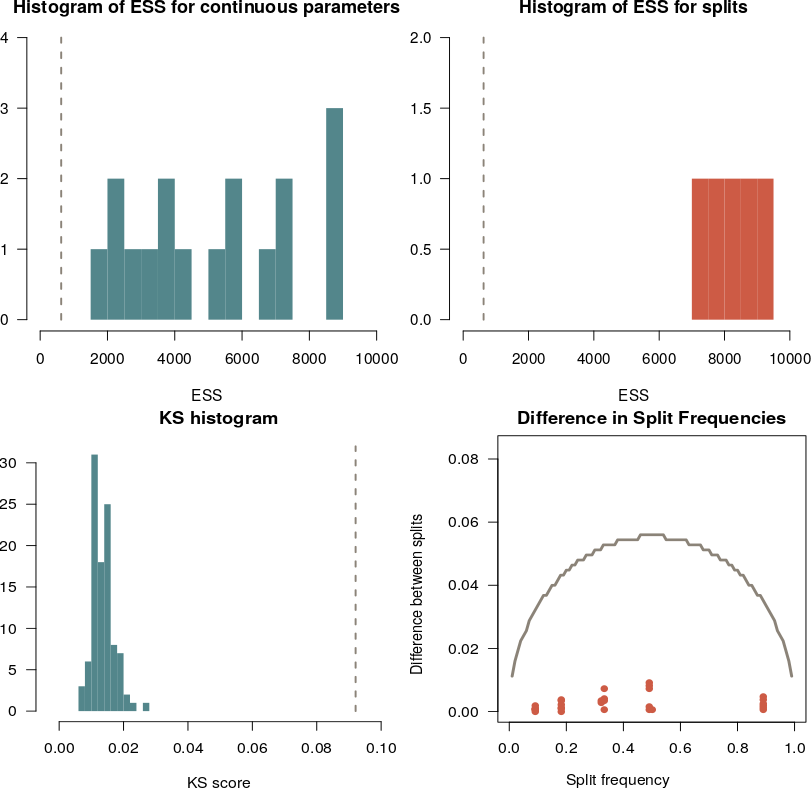
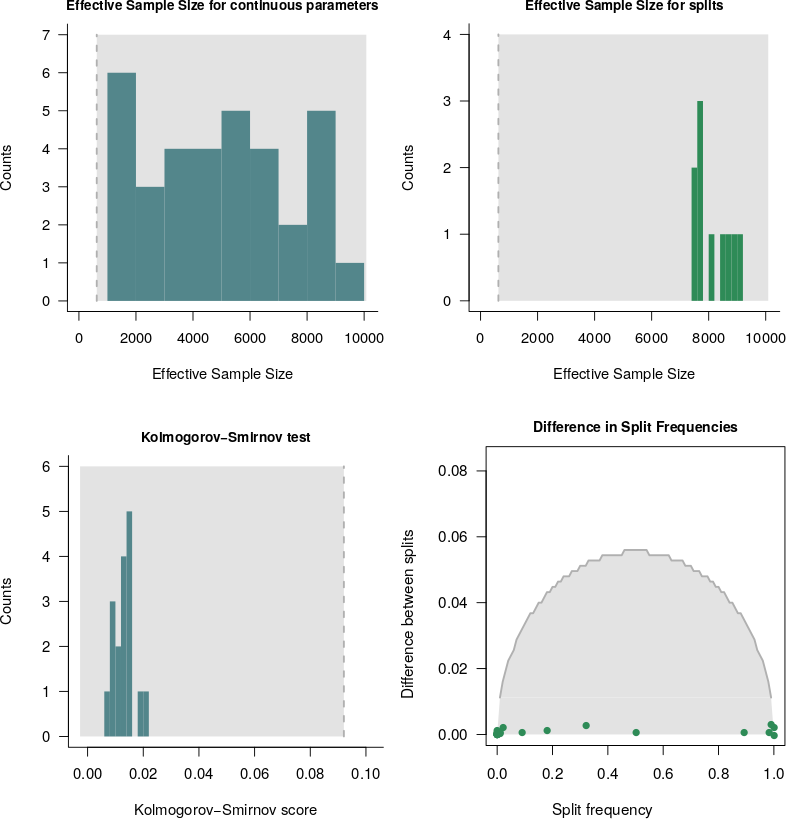
updated convergence tutorial after major changes in the convenience package

diff --git a/tutorials/convergence/index.md b/tutorials/convergence/index.md
@@ -225,10 +225,6 @@ The output message includes:
 
 * The calculated burn-in
 
-* The splits excluded from the assessment for having frequency above 0.975 or below 0.025 (when applicable)
-
-* The continuous parameters excluded from the assessment for having no variation during the MCMC (when applicable)
-
 * Lowest ESS for the splits and continuous parameters
 
 * Instructions to check further the output:
@@ -244,13 +240,17 @@ The output message includes:
   >    `ESS: output$tree_parameters$ess` <br />
   >    `Difference in frequencies: output$tree_parameters$compare_runs` <br />
 
+> `To check the full summary message with splits and parameters excluded from the analysis type:` <br />
+  >    `output$message_complete` <br />
 
-We can see that `check_bears` has 4 elements: `message`, `converged`, `continuous_parameters` and `tree_parameters`.
+
+We can see that `check_bears` has 4 elements: `message`, `message_complete`, `converged`, `continuous_parameters` and `tree_parameters`.
 
 1. `message`: a summary of the convergence assessment;
-2. `converged`: a boolean that has TRUE if the analysis converged and FALSE if it did not converge;
-3. `continuous_parameters`: a list with means, ESS and KS-scores between runs;
-4. `tree_parameters`: a list with frequencies, ESS and split frequencies between runs.
+2. `message_complete`: the summary from message plus: (1) the splits excluded from the assessment for having frequency above 0.975 or below 0.025 (when applicable), (2) the continuous parameters excluded from the assessment for having no variation during the MCMC (when applicable);
+3. `converged`: a boolean that has TRUE if the analysis converged and FALSE if it did not converge;
+4. `continuous_parameters`: a list with means, ESS and KS-scores between runs;
+5. `tree_parameters`: a list with frequencies, ESS and split frequencies between runs.
 
 In case the analysis has failed to converge, another element will be on the output list: `failed` with the parameters that failed the criteria for convergence.
 
@@ -260,34 +260,34 @@ We can generate tables with general information for the continuous parameters th
 
 |        |     means     |     ESS    |
 | :---:  |     :----:    |     :---:  |
-| alpha  |  1.603954589  |  9031.384  |
-| er.1.  |  0.015576521  |  11070.400 |
-| er.2.  |  0.505904352  |  12114.042 |
-| er.3.  |  0.006423004  |  6343.636  |
-| er.4.  |  0.009572443  |  18549.306 |
-| er.5.  |  0.454927376  |  16764.042 |
-| er.6.  |  0.007596305  |  5534.844  |
-| p_inv  |  0.532339279  |  4382.799  |
-| pi.1.  |  0.293497210  |  10027.691 |
-| pi.2.  |  0.301726522  |  12104.489 |
-| pi.3.  |  0.135420687  |  9974.490  |
-| pi.4.  |  0.269355587  |  11021.611 |
-| sr.1.  |  0.216077996  |  10773.049 |
-| sr.2.  |  0.550663747  |  15892.737 |
-| sr.3.  |  1.015625752  |  11885.672 |
-| sr.4.  |  2.217632528  |  3654.626  |
-| TL     |  1.112491969  |  8041.564  |
+| alpha  |  1.603954589  |  8921.945  |
+| er.1.  |  0.015576521  |  10705.048 |
+| er.2.  |  0.505904352  |  11570.794 |
+| er.3.  |  0.006423004  |  5683.824  |
+| er.4.  |  0.009572443  |  18078.730 |
+| er.5.  |  0.454927376  |  15992.299 |
+| er.6.  |  0.007596305  |  4368.023  |
+| p_inv  |  0.532339279  |  3306.411  |
+| pi.1.  |  0.293497210  |  10057.477 |
+| pi.2.  |  0.301726522  |  11016.263 |
+| pi.3.  |  0.135420687  |  9775.079  |
+| pi.4.  |  0.269355587  |  9885.677  |
+| sr.1.  |  0.216077996  |  10275.761 |
+| sr.2.  |  0.550663747  |  16053.336 |
+| sr.3.  |  1.015625752  |  11775.210 |
+| sr.4.  |  2.217632528  |  3842.496  |
+| TL     |  1.112491969  |  7677.455  |
 
 
 > `printTableSplits(check_bears)` <br />
 
 |                                                                                   |     frequencies   |    ESS    |
 | :---                                                                              |     :----:        |    :---:  |
-|Helarctos_malayanus Ursus_americanus                                               |    0.08814119     | 18594.19  |
-|Melursus_ursinus Ursus_arctos Ursus_maritimus                                      |    0.17603240     | 17116.12  |
-|Helarctos_malayanus Melursus_ursinus Ursus_americanus Ursus_thibetanus             |    0.32441756     | 16318.73  |
-|Helarctos_malayanus Ursus_americanus Ursus_arctos Ursus_maritimus Ursus_thibetanus |    0.49535046     | 18692.89  |
-|Ursus_americanus Ursus_thibetanus                                                  |    0.88891111     | 15668.33  |
+|Helarctos_malayanus Ursus_americanus                                               |    0.09     | 17127.93  |
+|Melursus_ursinus Ursus_arctos Ursus_maritimus                                      |    0.18     | 18074.54  |
+|Helarctos_malayanus Melursus_ursinus Ursus_americanus Ursus_thibetanus             |    0.32     | 15526.14  |
+|Helarctos_malayanus Ursus_americanus Ursus_arctos Ursus_maritimus Ursus_thibetanus |    0.50     | 15731.22  |
+|Ursus_americanus Ursus_thibetanus                                                  |    0.89     | 15269.03  |
 
 
 Convenience also provides plot functions to facilitate showing that convergence has been achieved.
@@ -299,13 +299,13 @@ And the function `plotDiffSplits` yields a plot for the calculated difference in
 {% figure plotESS %}
 <img src="figures/results_plots.png" width="800" />
 {% figcaption %}
-The plots generated with Convenience for summarizing and visualizing the results from the convergence assessment. The top-left figure shows the histogram of calculated ESS values for the model parameters (continuous parameters). The bottom-left figure shows the histogram of calculated ESS for the splits. In both histograms the grey dotted lines represents the threshold of 625. The bottom-right plot is the histogram of the Kolmogorov-Smirnov (KS) for the model parameters, the dotted grey line represents the threshold for the KS test. The bottom-left figure shows the observed difference is split frequencies in the red dots and the expected difference between split frequencies (EDSF) in the grey curve.
+The plots generated with Convenience for summarizing and visualizing the results from the convergence assessment. The top-left figure shows the histogram of calculated ESS values for the model parameters (continuous parameters). The bottom-left figure shows the histogram of calculated ESS for the splits. In both histograms the grey dotted lines represents the threshold of 625. The bottom-right plot is the histogram of the Kolmogorov-Smirnov (KS) for the model parameters, the dotted grey line represents the threshold for the KS test. The bottom-left figure shows the observed difference is split frequencies in the green dots and the expected difference between split frequencies (EDSF) in the grey curve. For all plots, the grey area shows where the parameters should be for convergence to be achieved.
 {% endfigcaption %}
 {% endfigure %}
 
 We can see that, for all figures, all continuous parameters and splits have an ESS above the threshold. This is what we would have expected for a MCMC that has converged. 
 The KS histogram shows that all KS values calculated for the continuous parameters are below the threshold. This means that the parameters are drawn from the same distribution for both runs of our analysis. Therefore, if convergence is achieved for a given analysis, the histogram for the KS values should be similiar to this plot.
-The calculated differences in split frequencies fall below the threshold curve in gray. When convergence is not achieved, some dots would be above the threshold curve. 
+The calculated differences in split frequencies fall below the threshold curve in grey. When convergence is not achieved, some dots would be above the threshold curve. 
 
 It is also possible to plot the histogram of the KS values for the comparisons one-on-one when the MCMC analysis have more than 2 runs.
 The function for this plot is `plotKS.pooled`. 
@@ -366,6 +366,7 @@ We can divide our MCMC that lack convergence by the number of parameters that fa
 
 * One or few parameters failing
 
-For the first case, we should run the MCMC longer to get more samples. In the second case, we should increase the weights on the moves or even add more moves for the specific parameters that failed.
+For the first case, we should adjust the MCMC to be more efficient. This can be done by increasing the weights on the moves of the parameters that failed, using other MCMC algorithms (such as adaptive MCMC or Metropolis-Coupled MCMC), increasing the number of iterations, etc. 
+In the second case, we should increase the weights on the moves or even add more moves for the specific parameters that failed.
 
 
